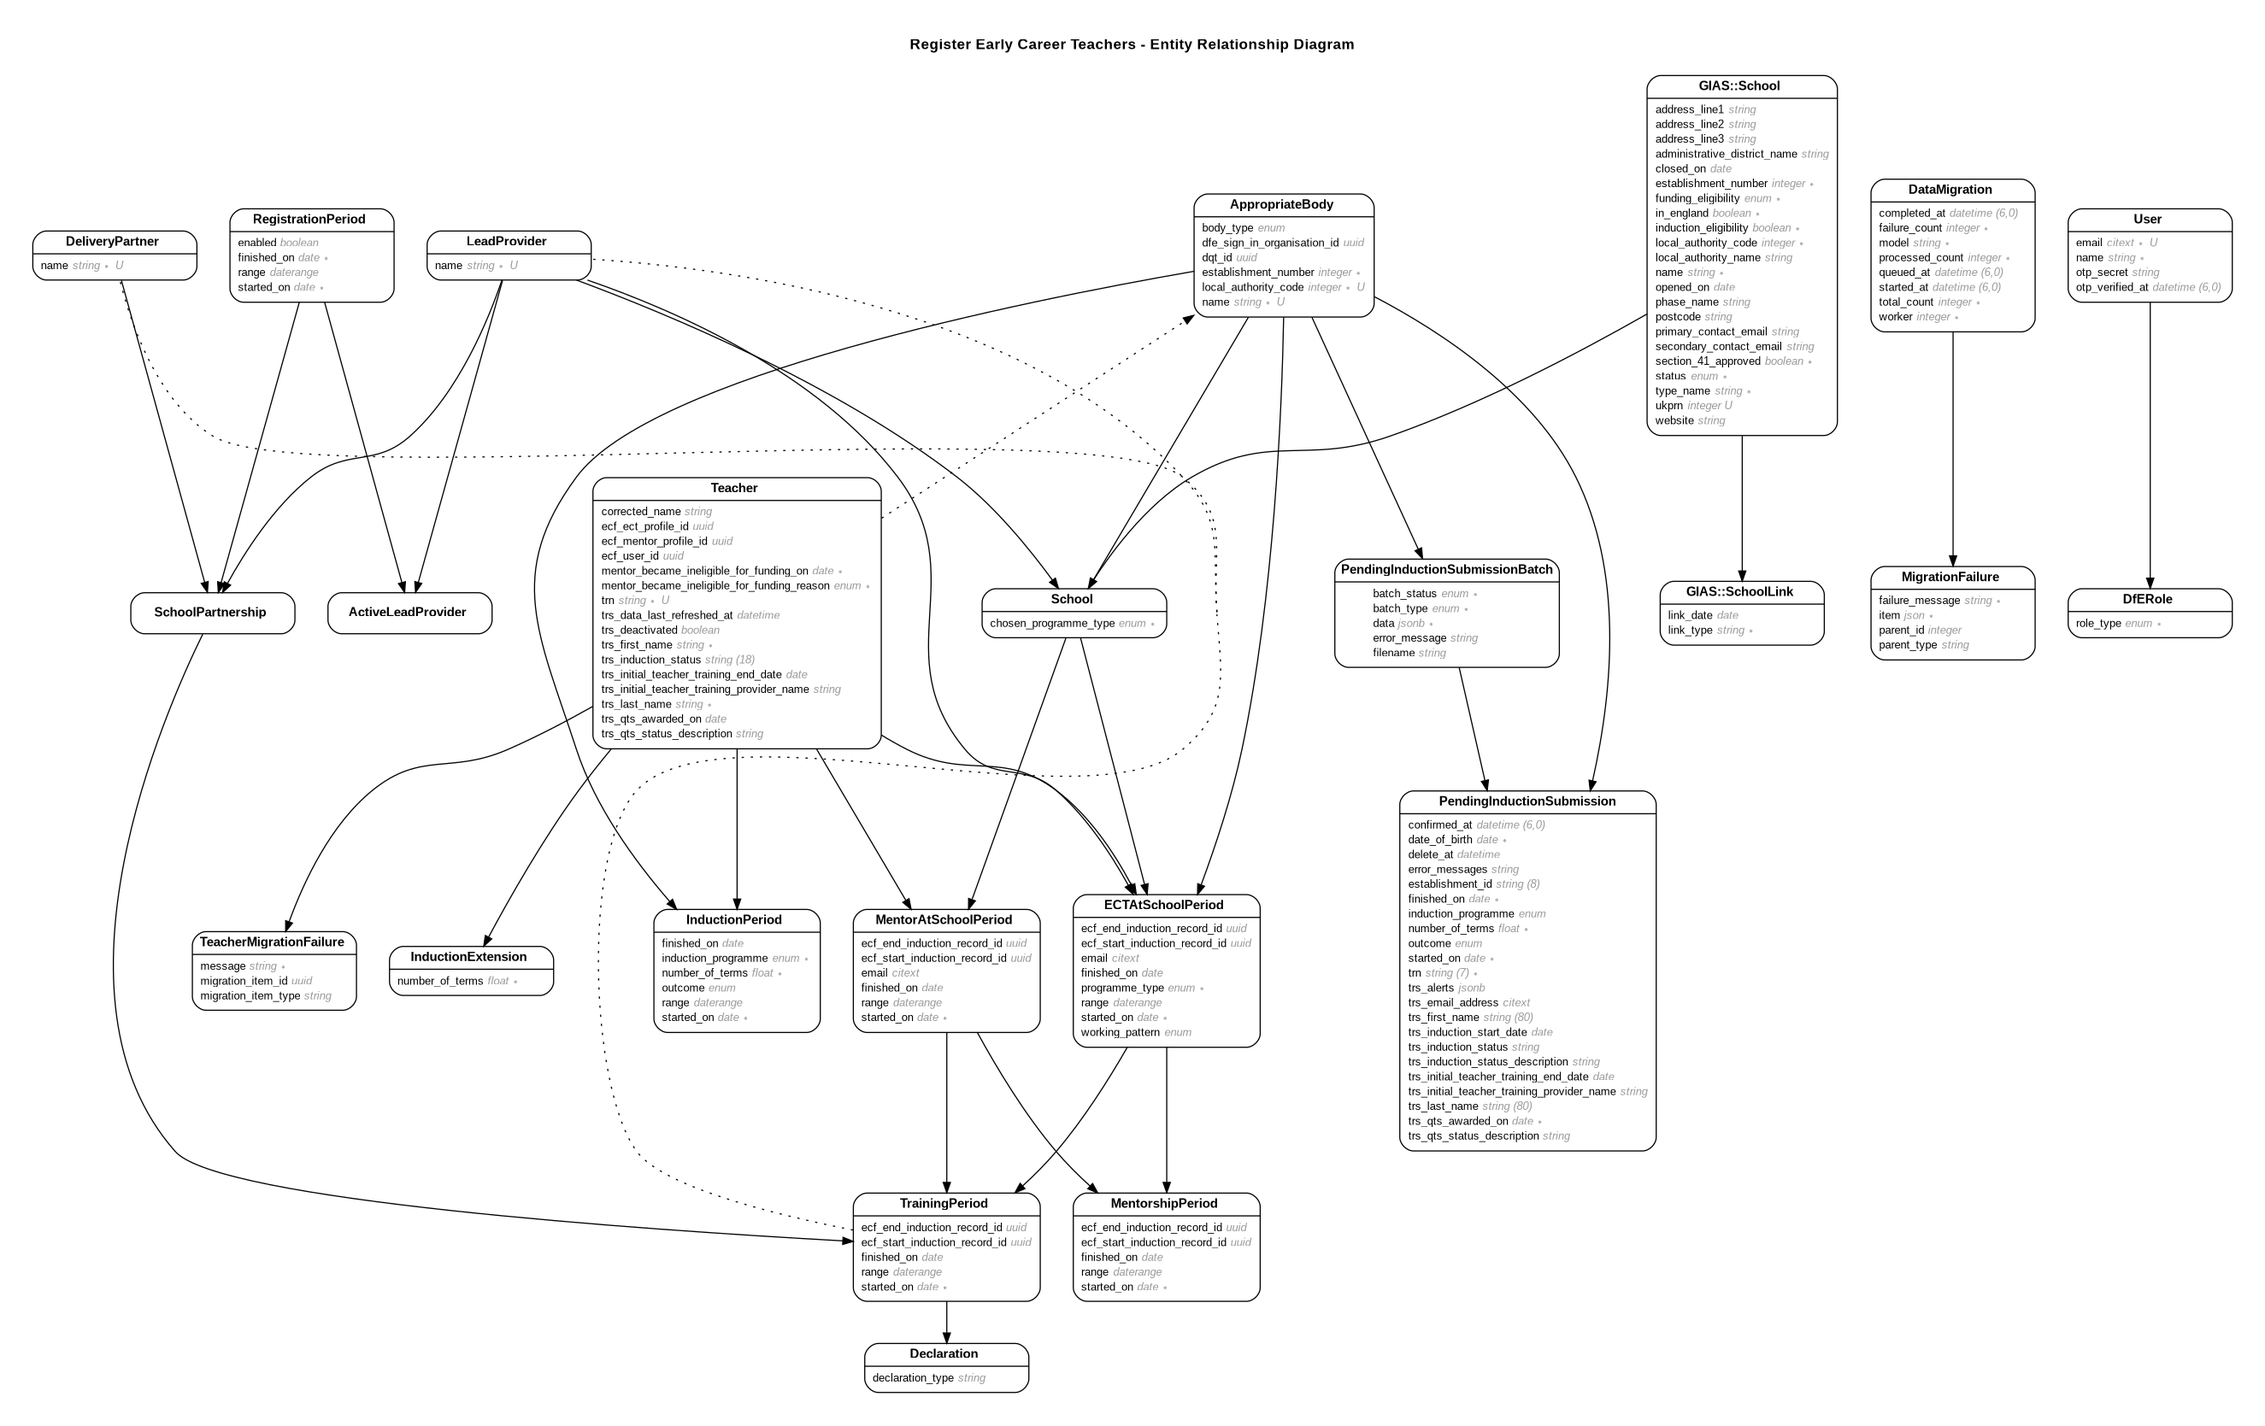
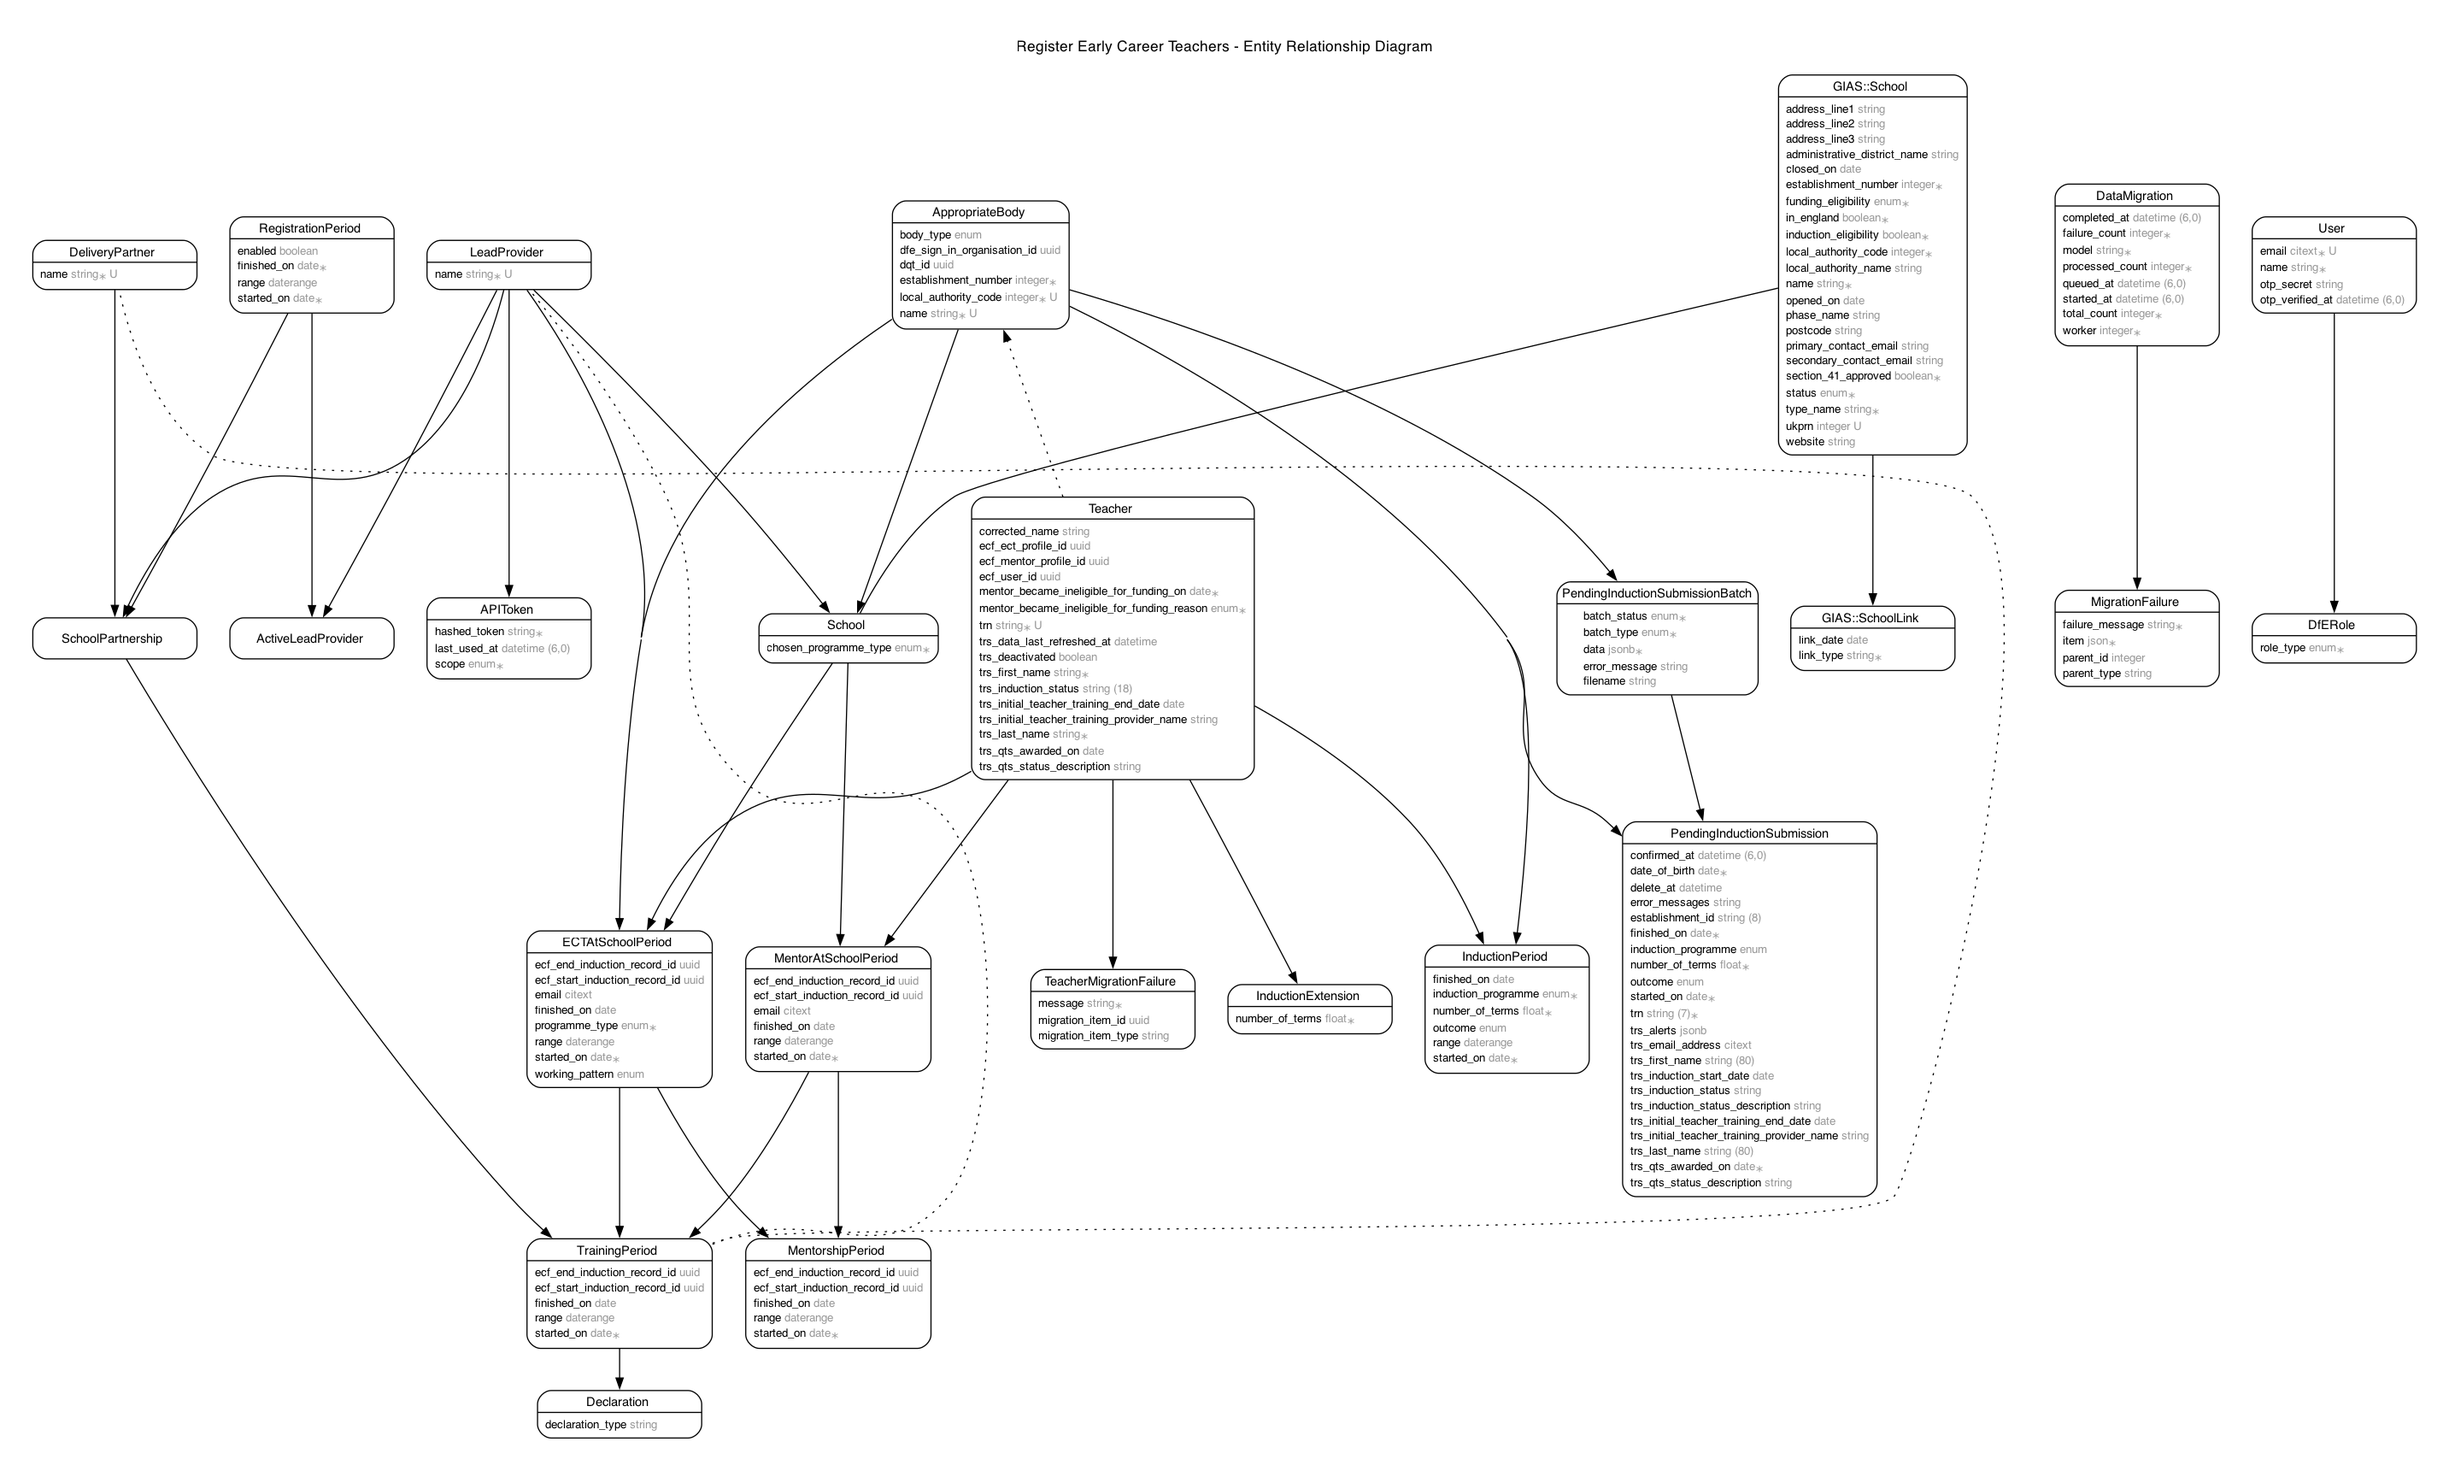
Add alternative option for api token

diff --git a/db/schema.rb b/db/schema.rb
@@ -10,7 +10,7 @@
 #
 # It's strongly recommended that you check this file into your version control system.
 
-ActiveRecord::Schema[8.0].define(version: 2025_05_15_154445) do
+ActiveRecord::Schema[8.0].define(version: 2025_05_19_155554) do
   # These are extensions that must be enabled in order to support this database
   enable_extension "citext"
   enable_extension "pg_catalog.plpgsql"
@@ -342,6 +342,18 @@ ActiveRecord::Schema[8.0].define(version: 2025_05_15_154445) do
     t.string "parent_type"
     t.index ["data_migration_id"], name: "index_migration_failures_on_data_migration_id"
     t.index ["parent_id"], name: "index_migration_failures_on_parent_id"
+  end
+
+  create_table "new_api_tokens", force: :cascade do |t|
+    t.string "tokenable_type"
+    t.bigint "tokenable_id"
+    t.string "hashed_token", null: false
+    t.string "description"
+    t.datetime "last_used_at"
+    t.datetime "created_at", null: false
+    t.datetime "updated_at", null: false
+    t.index ["hashed_token"], name: "index_new_api_tokens_on_hashed_token", unique: true
+    t.index ["tokenable_type", "tokenable_id"], name: "index_new_api_tokens_on_tokenable"
   end
 
   create_table "pending_induction_submission_batches", force: :cascade do |t|

diff --git a/app/controllers/concerns/api/token_authenticatable.rb b/app/controllers/concerns/api/token_authenticatable.rb
@@ -15,12 +15,21 @@ module API
 
     def authenticate_token
       authenticate_with_http_token do |unhashed_token|
+        # Option 1
         @current_api_token = APIToken.find_by_unhashed_token(unhashed_token, scope: api_token_scope).tap do |api_token|
+          # Option 2
+          # @current_api_token = APIToken.find_by_unhashed_token(unhashed_token, tokenable_type: api_tokenable_type).tap do |api_token|
           if api_token
             api_token.update!(last_used_at: Time.zone.now)
           end
         end
       end
+    end
+
+    def api_tokenable_type
+      # This would be overridden in specific API controllers
+      # For example, in API::BaseController it would return "LeadProvider"
+      raise NotImplementedError
     end
 
     def render_unauthorized

diff --git a/app/models/new_api_token.rb b/app/models/new_api_token.rb
@@ -1,0 +1,24 @@
+class NewAPIToken < ApplicationRecord
+  has_secure_token :hashed_token, length: 32
+  encrypts :hashed_token, deterministic: true
+
+  belongs_to :tokenable, polymorphic: true
+
+  validates :hashed_token, presence: true, uniqueness: true
+
+  def self.create_with_random_token!(**options)
+    create!(**options).hashed_token
+  end
+
+  def self.find_by_unhashed_token(unhashed_token, tokenable_type: nil)
+    query = where(hashed_token: unhashed_token)
+    query = query.where(tokenable_type:) if tokenable_type.present?
+
+    query.first
+  end
+
+  # Only used in specs and seeds
+  def self.create_with_known_token!(token, **options)
+    find_or_create_by!(hashed_token: token, **options)
+  end
+end

diff --git a/db/seeds.rb b/db/seeds.rb
@@ -742,3 +742,7 @@ print_seed_info('Adding APITokens:')
 lead_provider = LeadProvider.find_by_name("National Meadows Institute")
 APIToken.create_with_known_token!("national-token", lead_provider:)
 print_seed_info("Added APIToken for #{lead_provider.name}: 'national-token'", indent: 2)
+
+lead_provider = LeadProvider.find_by_name("Evergreen Network")
+NewAPIToken.create_with_known_token!('egreen-token', tokenable: lead_provider, description: "API access for #{lead_provider.name}")
+print_seed_info("Added APIToken for #{lead_provider.name}: 'egreen-token'", indent: 2)

diff --git a/db/migrate/20250519155554_create_new_api_tokens.rb b/db/migrate/20250519155554_create_new_api_tokens.rb
@@ -1,0 +1,15 @@
+class CreateNewAPITokens < ActiveRecord::Migration[8.0]
+  def change
+    create_table :new_api_tokens do |t|
+      t.references :tokenable, polymorphic: true, index: true
+
+      t.string :hashed_token, null: false
+      t.string :description
+      t.datetime :last_used_at
+
+      t.timestamps
+    end
+
+    add_index :new_api_tokens, :hashed_token, unique: true
+  end
+end

diff --git a/app/models/lead_provider.rb b/app/models/lead_provider.rb
@@ -3,6 +3,7 @@ class LeadProvider < ApplicationRecord
   has_many :school_partnerships, inverse_of: :lead_provider
   has_many :active_lead_providers, inverse_of: :lead_provider
   has_many :events
+  has_many :api_tokens, as: :tokenable, dependent: :destroy
 
   # Validations
   validates :name,

diff --git a/app/controllers/api/base_controller.rb b/app/controllers/api/base_controller.rb
@@ -4,8 +4,14 @@ module API
 
   private
 
+    # Option 1: Using scopes
     def api_token_scope
       APIToken.scopes[:lead_provider]
+    end
+
+    # Option 2: Using polymorphic associations
+    def api_tokenable_type
+      "LeadProvider"
     end
   end
 end
